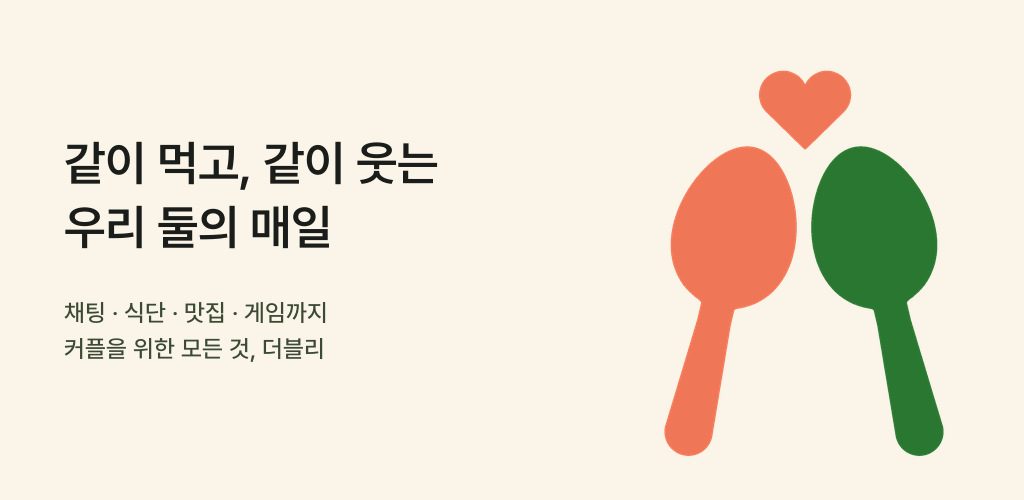
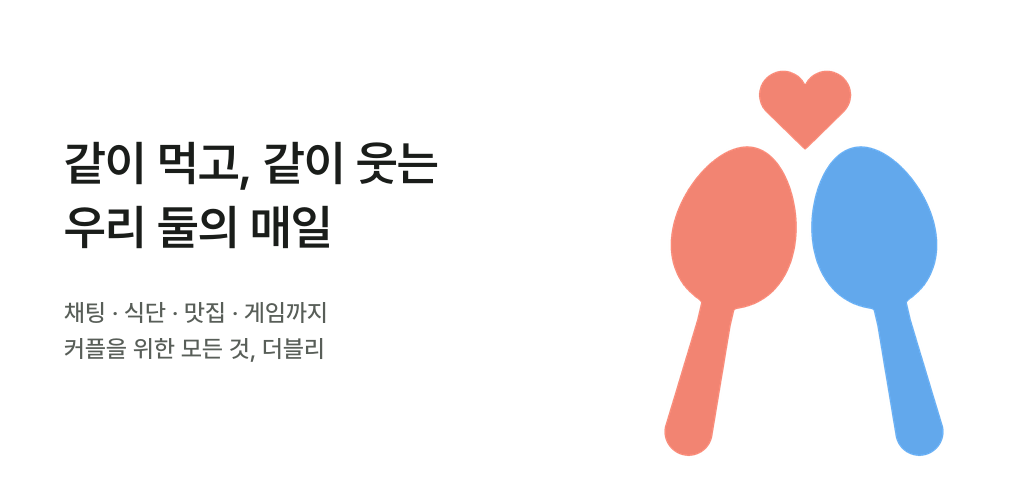
fix(store): 피처 그래픽 보조 글자를 올리브 → 무채색, 스크린샷 재촬영 필요 표시
make_plates.py 의 SUB 를 palette.ts textSecondary 로(쓰이지 않던 OLIVE 삭제), 피처 그래픽만 다시 뽑았다.
배경판은 색 상수를 쓰지 않아 그대로다. shots/ 캡처는 초록 시절 화면이라 README 에 재촬영 필요를 적었다.

Changed region(s): [[0.625, 0.12, 0.9375, 0.93], [0.0625, 0.6, 0.3125, 0.72]]

diff --git a/store/make_plates.py b/store/make_plates.py
@@ -25,10 +25,11 @@ OUT = ROOT / "plates"
 # 화면 비율 — 요즘 폰은 9:19.5 다. 자리를 이 비율로 잡아야 캡처가 덜 잘린다.
 SHOT_RATIO = 9 / 19.5
 
-# 브랜드 팔레트 — frontend/src/theme/colors.ts 와 같은 값
+# 브랜드 팔레트 — frontend/src/theme/palette.ts 라이트 값과 같다(ink · textSecondary).
+# 2026-10-05 색 교체: 앱이 초록이던 시절의 올리브 보조 글자(60,74,51)를 무채색 보조 글자로. 쓰이지 않던 OLIVE 는 뺐다.
+# 색은 마크(코랄·하늘, icon/make_icon.py)와 배경 그라데이션(GRAD)에만 남는다 — 앱과 같은 "바탕·글자는 무채색" 원칙.
 INK = (26, 29, 26)
-OLIVE = (89, 119, 45)
-SUB = (60, 74, 51)
+SUB = (88, 94, 88)
 # 2026-09-29: 피치 → 크림 → 하늘 — 나노바나나 시안의 배경. 앞 판(올리브 계열)은 앱 초록과 겹쳐 화면이 묻혔다
 GRAD = ((255, 216, 199), (251, 245, 233), (204, 228, 243))
 

diff --git a/store/README.md b/store/README.md
@@ -8,11 +8,15 @@
 그러면 JS 만 바뀐 배포에도 빌드가 한 번 더 강제된다(`docs/OTA_PREFLIGHT_2026-09-14.md` 2절이
 아이콘·폰트에서 실제로 겪은 일이다). 스토어 자산은 앱 번들과 무관하므로 저장소 루트에 둔다.
 
+> **⚠ 2026-10-05 앱 색 교체** — 앱이 초록 → 나 코랄·상대 하늘·버튼 잉크로 바뀌었다
+> (`docs/color-redesign-viewer-based_2026-10-05.md`). **`shots/` 의 캡처는 그 전(초록) 화면**이라
+> 다음 스토어 등록정보 갱신 전에 폰에서 다시 찍어야 한다. 배경판(`plates/`)·피처 그래픽은 이미 새 색이다.
+
 ## 무엇이 들어 있나
 
 | 파일 | 설명 |
 | --- | --- |
-| `feature_graphic.png` | Play 피처 그래픽(콘솔의 "그래픽 이미지") **1024×500**. 2026-09-29 에 달걀이·구운이로 교체 |
+| `feature_graphic.png` | Play 피처 그래픽(콘솔의 "그래픽 이미지") **1024×500**. 2026-09-29 에 달걀이·구운이로 교체, 2026-10-05 보조 글자를 올리브 → 무채색으로 |
 | `plates/<크기>_<번호>.png` | 캡션 배경판 — 캡처 자리가 **투명하게 뚫려** 있다 |
 | `shots/<문구키>.png` | 폰에서 찍어둔 원본 캡처. `compose.py` 에 그대로 먹인다 |
 | `make_plates.py` | 배경판·피처 그래픽 생성기 (문구·크기를 여기서 고친다) |
